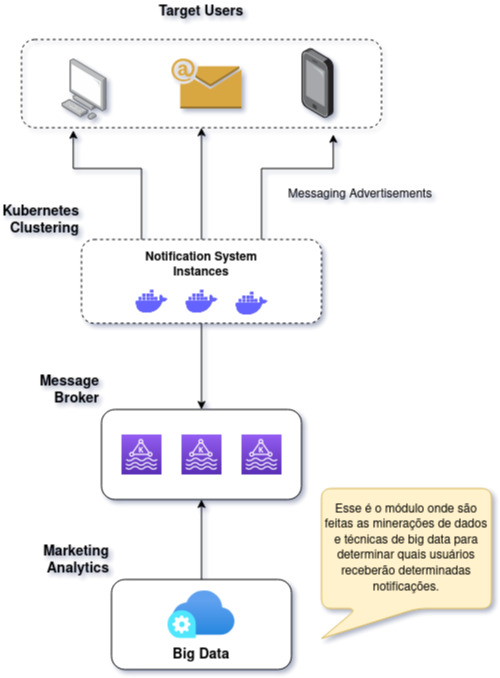
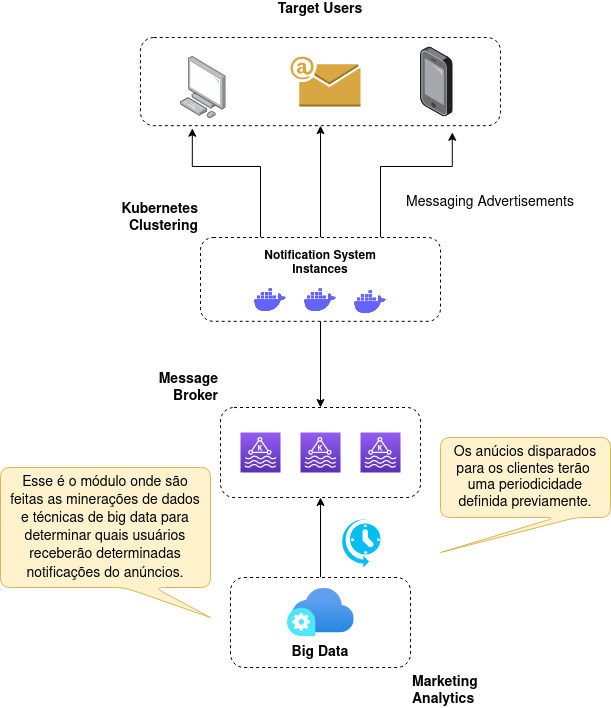
Continuando com o README.md

diff --git a/src/main/resources/static/app.js b/src/main/resources/static/app.js
@@ -20,7 +20,8 @@ function connect() {
         console.log('Connected to the queue: ' + queue);
         stompClient.subscribe(queue, function (response) {
             var notification = JSON.parse(response.body);
-            var message = notification.userId +' => '+notification.description;
+            var message = notification.title +' => '+notification.description;
+            console.log('advertisement: '+ message)
             showAdvertisements(message);
         });
     });

diff --git a/src/main/java/br/com/mercadolivre/notificationsystem/notification/NotificationStrategyFactory.java b/src/main/java/br/com/mercadolivre/notificationsystem/notification/NotificationStrategyFactory.java
@@ -1,7 +1,6 @@
 package br.com.mercadolivre.notificationsystem.notification;
 
 import org.springframework.beans.factory.annotation.Autowired;
-import org.springframework.messaging.simp.SimpMessageSendingOperations;
 import org.springframework.messaging.simp.SimpMessagingTemplate;
 import org.springframework.stereotype.Component;
 
@@ -12,8 +11,8 @@ public class NotificationStrategyFactory {
   private SimpMessagingTemplate messagingTemplate;
 
   public NotificationStrategy getNotification(ChannelType channel) {
-    if (ChannelType.DESKTOP == channel) {
-      return new DesktopNotificationStrategy(messagingTemplate);
+    if (ChannelType.WEB == channel) {
+      return new WebNotificationStrategy(messagingTemplate);
     } else if (ChannelType.MOBILE == channel) {
       return new MobileNotificationStrategy();
     } else if (ChannelType.EMAIL == channel) {

diff --git a/src/main/java/br/com/mercadolivre/notificationsystem/notification/WebNotificationStrategy.java b/src/main/java/br/com/mercadolivre/notificationsystem/notification/WebNotificationStrategy.java
@@ -2,15 +2,13 @@ package br.com.mercadolivre.notificationsystem.notification;
 
 import br.com.mercadolivre.notificationsystem.model.Advertisement;
 import br.com.mercadolivre.notificationsystem.notification.converter.AdvertisementConverter;
-import org.springframework.beans.factory.annotation.Autowired;
 import org.springframework.messaging.simp.SimpMessagingTemplate;
-import org.springframework.stereotype.Component;
 
-class DesktopNotificationStrategy implements NotificationStrategy {
+class WebNotificationStrategy implements NotificationStrategy {
 
   private SimpMessagingTemplate messagingTemplate;
 
-  DesktopNotificationStrategy(SimpMessagingTemplate messagingTemplate) {
+  WebNotificationStrategy(SimpMessagingTemplate messagingTemplate) {
     this.messagingTemplate = messagingTemplate;
   }
 

diff --git a/src/main/java/br/com/mercadolivre/notificationsystem/notification/ChannelType.java b/src/main/java/br/com/mercadolivre/notificationsystem/notification/ChannelType.java
@@ -1,5 +1,5 @@
 package br.com.mercadolivre.notificationsystem.notification;
 
 public enum ChannelType {
-  EMAIL, DESKTOP, MOBILE
+  EMAIL, WEB, MOBILE
 }

diff --git a/README.md b/README.md
@@ -42,5 +42,18 @@ Are you having trouble on running this application? Send an email to viniciussf@
 
 ## About this Solution
 
+### Scenario: Marketing and Data Mining  
+There are many systems responsible to collect the customer interactions and their product preferences to process in order to 
+decide what products are most likely to be offered to each customer according to their profile. Once all the data are ready to be sent to
+the customers we need a new application just to manage this advertisement notifications.
+
+This solutions has two module: 
+* The first one is the advertisement-notification-producer, responsible to manage all 
+the advertisements coming from the marketing department, stores that advertisements data to publish it in a message broker
+using a scheduled task
+* The second one in the notification-system, responsible to listening all the messages published in that message broker
+and decide for what channel the customer must ne notified.
+
+
 
 ![Alt Text](./images/notification-system-diagram.jpg)
